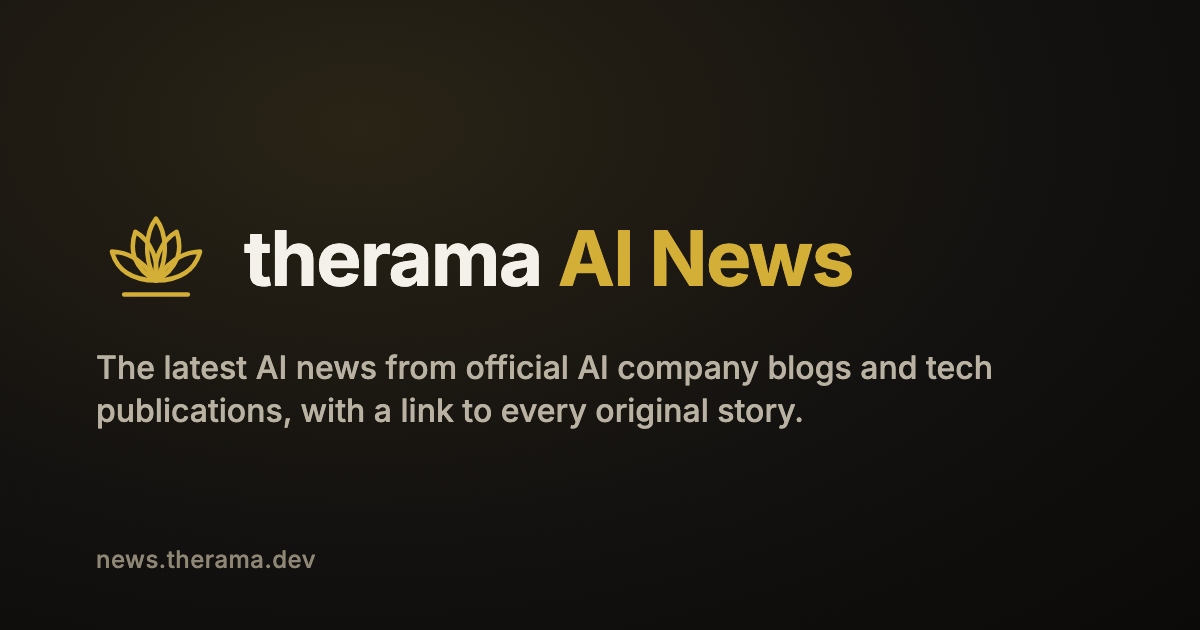
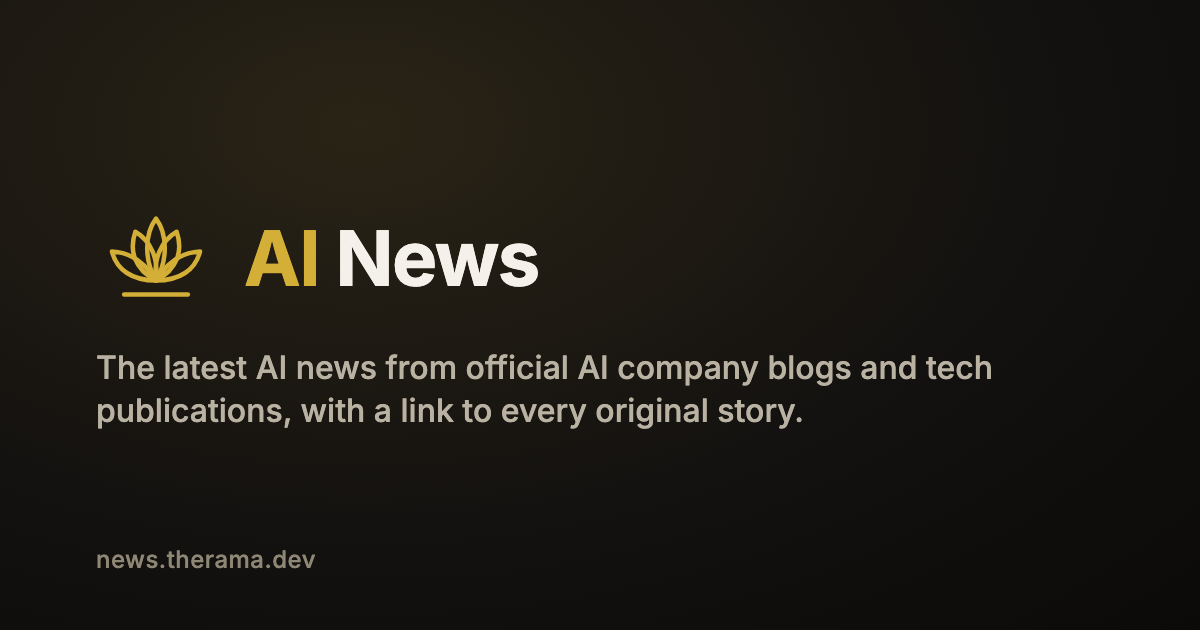
Rename the site from "therama AI News" to "AI News"
Header lockup, page titles and meta, About and Sources pages, admin title,
web manifest and the link-preview image.

Changed region(s): [[0.185, 0.3619, 0.7092, 0.4524]]

diff --git a/src/pages/About.tsx b/src/pages/About.tsx
@@ -6,10 +6,10 @@ import { SocialLinks } from "@/components/SocialLinks";
 export default function About() {
   return (
     <div className="prose prose-zinc mx-auto max-w-2xl dark:prose-invert">
-      <Seo title="About" description="How therama AI News collects and presents AI news." path="/about" />
-      <h1>About therama AI News</h1>
+      <Seo title="About" description="How AI News collects and presents AI news." path="/about" />
+      <h1>About AI News</h1>
       <p>
-        therama AI News is a single, fast feed of what's happening in artificial intelligence: model releases,
+        AI News is a single, fast feed of what's happening in artificial intelligence: model releases,
         product launches, research, funding and policy.
       </p>
       <h2>How it works</h2>

diff --git a/src/components/Layout.tsx b/src/components/Layout.tsx
@@ -44,7 +44,7 @@ export function Layout() {
       </a>
       <header className="sticky top-0 z-40 border-b bg-background/85 backdrop-blur supports-[backdrop-filter]:bg-background/70">
         <div className="container flex h-14 items-center gap-4">
-          <Link to="/" className="shrink-0 rounded-md focus:outline-none focus-visible:ring-2 focus-visible:ring-ring" aria-label="therama AI News home">
+          <Link to="/" className="shrink-0 rounded-md focus:outline-none focus-visible:ring-2 focus-visible:ring-ring" aria-label="AI News home">
             <Logo />
           </Link>
           <SearchBox ref={searchRef} className="mx-auto hidden w-full max-w-md md:block" />

diff --git a/src/pages/Sources.tsx b/src/pages/Sources.tsx
@@ -7,7 +7,7 @@ import { Badge } from "@/components/ui/badge";
 export default function Sources() {
   return (
     <div className="mx-auto max-w-5xl">
-      <Seo title="Sources" description="The AI company blogs and tech publications behind therama AI News." path="/sources" />
+      <Seo title="Sources" description="The AI company blogs and tech publications behind AI News." path="/sources" />
       <h1 className="text-2xl font-bold tracking-tight md:text-3xl">Sources</h1>
       <p className="mt-1 text-sm text-muted-foreground">Every story links back to one of these publishers.</p>
       <ul className="mt-6 grid gap-4 sm:grid-cols-2 lg:grid-cols-3">

diff --git a/index.html b/index.html
@@ -3,9 +3,9 @@
   <head>
     <meta charset="UTF-8" />
     <meta name="viewport" content="width=device-width, initial-scale=1.0" />
-    <title>therama AI News</title>
+    <title>AI News</title>
     <meta name="description" content="The latest AI news from official AI company blogs and tech publications, with links to every original source." />
-    <meta property="og:title" content="therama AI News" />
+    <meta property="og:title" content="AI News" />
     <meta property="og:description" content="The latest AI news, collected from the source." />
     <meta property="og:type" content="website" />
     <meta name="theme-color" content="#141210" />

diff --git a/src/components/Seo.tsx b/src/components/Seo.tsx
@@ -1,10 +1,10 @@
 import { Helmet } from "react-helmet-async";
 
-const SITE = "therama AI News";
+const SITE = "AI News";
 const ORIGIN = "https://news.therama.dev";
 
 export function Seo({ title, description, path }: { title?: string; description?: string | null; path?: string }) {
-  const full = title ? `${title} | ${SITE}` : `${SITE}: the latest AI news`;
+  const full = title ? `${title} | ${SITE}` : `${SITE}: the latest artificial intelligence news`;
   const desc = description || "The latest AI news from official AI company blogs and tech publications, with links to every original source.";
   return (
     <Helmet>

diff --git a/src/components/Logo.tsx b/src/components/Logo.tsx
@@ -25,13 +25,13 @@ export function LotusMark({ className, title }: { className?: string; title?: st
   );
 }
 
-/** Header lockup: lotus + "therama AI News". */
+/** Header lockup: lotus + "AI News". */
 export function Logo({ className }: { className?: string }) {
   return (
     <span className={cn("flex items-center gap-2 font-semibold tracking-tight", className)}>
       <LotusMark className="h-7 w-7" />
       <span>
-        therama <span className="text-primary">AI News</span>
+        <span className="text-primary">AI</span> News
       </span>
     </span>
   );

diff --git a/src/pages/Admin.tsx b/src/pages/Admin.tsx
@@ -285,7 +285,7 @@ export default function Admin() {
   return (
     <>
       <Helmet>
-        <title>Admin | therama AI News</title>
+        <title>Admin | AI News</title>
         <meta name="robots" content="noindex, nofollow" />
       </Helmet>
       {signedIn ? <Dashboard onSignedOut={() => setSignedIn(false)} /> : <Login onDone={() => setSignedIn(true)} />}

diff --git a/README.md b/README.md
@@ -1,4 +1,4 @@
-# news.therama.dev
+# news.therama.dev: AI News
 
 A fast, read-only AI news site. It shows the latest stories from official AI company blogs and tech publications, and every story links to its original publisher.
 
